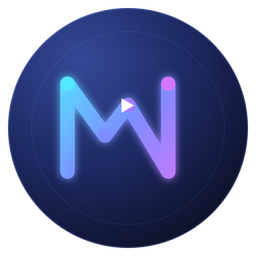
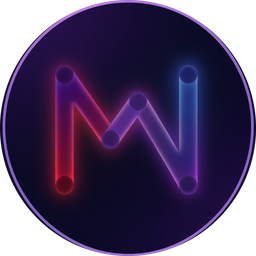
Add files via upload

diff --git a/messages/styles.css b/messages/styles.css
@@ -1,19 +1,19 @@
 
 :root {
-  --bg: #0a0a0f;
-  --surface: #12121a;
-  --elevated: #16161f;
-  --panel: #1b1b27;
+  --bg: #080814;
+  --surface: #0e0e22;
+  --elevated: #12122a;
+  --panel: #171733;
   --border: rgba(255, 255, 255, 0.08);
   --fg: #f0f0f5;
   --muted: #a0a0b0;
   --subtle: #6b7385;
-  --accent: #7d8cff;
-  --accent-2: #55e7ff;
+  --accent: #a35cff;
+  --accent-2: #6b9bff;
   --accent-fg: #071018;
   --danger: #e85d5d;
   --success: #3dd68c;
-  --gradient: linear-gradient(135deg, #55e7ff 0%, #7d8cff 50%, #d476ff 100%);
+  --gradient: linear-gradient(135deg, #ff3d5a 0%, #a35cff 50%, #4f8bff 100%);
 }
 * { box-sizing: border-box; }
 html, body { height: 100%; margin: 0; background: var(--bg); color: var(--fg); font-family: Inter, "Segoe UI", system-ui, sans-serif; }
@@ -21,14 +21,14 @@ button, input, textarea, select { font: inherit; color: inherit; }
 button { background: none; border: 0; cursor: pointer; }
 [hidden] { display: none !important; }
 ::-webkit-scrollbar { width: 10px; }
-::-webkit-scrollbar-thumb { background: #2a3040; border-radius: 99px; }
+::-webkit-scrollbar-thumb { background: #2a2850; border-radius: 99px; }
 .app { display: flex; height: 100%; min-height: 0; background: var(--bg); color: var(--fg); }
 .rail { width: 72px; display: flex; flex-direction: column; align-items: center; gap: 8px; border-right: 1px solid var(--border); background: var(--bg); padding: 12px 0; height: 100%; position: relative; flex-shrink: 0; }
 #servers { flex: 1; overflow: auto; width: 100%; display: flex; flex-direction: column; align-items: center; gap: 8px; }
 .rail img.home { width: 48px; height: 48px; border-radius: 16px; object-fit: cover; }
 .rail .rule { width: 32px; height: 1px; background: var(--border); }
 .rail .orb { width: 48px; height: 48px; border-radius: 16px; background: var(--elevated); color: var(--accent-2); display: grid; place-items: center; font-weight: 700; border: 1px solid var(--border); }
-.rail .orb:hover { border-color: rgba(125, 140, 255, 0.4); }
+.rail .orb:hover { border-color: rgba(163,92,255, 0.4); }
 .rail-bottom { margin-top: auto; display: flex; flex-direction: column; gap: 8px; padding-bottom: 10px; }
 .mid { width: 260px; display: flex; flex-direction: column; border-right: 1px solid var(--border); background: var(--surface); min-height: 0; flex-shrink: 0; }
 .mid-top { height: 56px; display: flex; align-items: center; padding: 0 16px; border-bottom: 1px solid var(--border); font-weight: 700; font-family: "Space Grotesk", Inter, sans-serif; }
@@ -36,9 +36,9 @@ button { background: none; border: 0; cursor: pointer; }
 .mid-item { width: 100%; text-align: left; border-radius: 10px; padding: 9px 10px; font-size: 14px; color: var(--fg); transition: background .15s ease; }
 .mid-item:hover, .mid-item.on { background: var(--elevated); }
 .call-top.join { background: var(--success); color: #071018; }
-.call-dock { display: flex; align-items: center; gap: 10px; margin: 8px 10px 0; padding: 10px 12px; width: calc(100% - 20px); text-align: left; border-radius: 14px; border: 1px solid rgba(85,231,255,.28); background: linear-gradient(135deg, rgba(85,231,255,.14), rgba(125,140,255,.16)); }
+.call-dock { display: flex; align-items: center; gap: 10px; margin: 8px 10px 0; padding: 10px 12px; width: calc(100% - 20px); text-align: left; border-radius: 14px; border: 1px solid rgba(79,139,255,.28); background: linear-gradient(135deg, rgba(79,139,255,.14), rgba(163,92,255,.16)); }
 .call-dock[hidden] { display: none !important; }
-.call-dock:hover { border-color: rgba(85,231,255,.5); }
+.call-dock:hover { border-color: rgba(79,139,255,.5); }
 .dock-dot { width: 8px; height: 8px; border-radius: 50%; background: var(--success); box-shadow: 0 0 0 4px rgba(61,214,140,.18); flex-shrink: 0; }
 .dock-copy { min-width: 0; display: flex; flex-direction: column; }
 .dock-kicker { font-size: 10px; letter-spacing: .08em; text-transform: uppercase; color: var(--muted); }
@@ -71,7 +71,7 @@ button { background: none; border: 0; cursor: pointer; }
 .ghost { color: var(--muted); padding: 6px 10px; border-radius: 8px; }
 .ghost:hover { color: var(--fg); background: var(--elevated); }
 .card { background: var(--elevated); border: 1px solid var(--border); border-radius: 14px; padding: 12px; margin-bottom: 10px; }
-.card:hover { border-color: rgba(125, 140, 255, 0.35); }
+.card:hover { border-color: rgba(163,92,255, 0.35); }
 .field { width: 100%; height: 44px; border-radius: 10px; border: 1px solid var(--border); background: var(--elevated); padding: 0 12px; margin: 6px 0; }
 .h { font-size: 11px; letter-spacing: 0.06em; text-transform: uppercase; color: var(--muted); margin: 16px 0 8px; }
 .ok { color: var(--success); } .err { color: var(--danger); }
@@ -81,7 +81,7 @@ button { background: none; border: 0; cursor: pointer; }
 label { display: block; font-size: 13px; color: var(--muted); margin-top: 10px; }
 .check { display: flex; align-items: center; gap: 8px; margin: 12px 0; }
 .preview { border: 1px solid var(--border); border-radius: 16px; overflow: hidden; margin-bottom: 12px; background: var(--elevated); }
-.banner { height: 84px; background: #12141c; }
+.banner { height: 84px; background: #0e1022; }
 .preview-row { display: flex; gap: 12px; align-items: center; padding: 12px; }
 .emoji { padding: 8px 16px; display: flex; flex-wrap: wrap; gap: 6px; border-top: 1px solid var(--border); }
 .emoji button { font-size: 18px; }
@@ -108,7 +108,7 @@ label { display: block; font-size: 13px; color: var(--muted); margin-top: 10px; 
 .group-faces .avatar:first-child { margin-left: 0; }
 .plus-btn, .edit-btn, .gear-btn { width: 34px; height: 34px; border-radius: 10px; background: var(--surface); border: 1px solid var(--border); color: var(--fg); font-size: 16px; line-height: 1; flex-shrink: 0; }
 .plus-btn { font-size: 20px; }
-.plus-btn:hover, .edit-btn:hover, .gear-btn:hover { border-color: rgba(125,140,255,.5); background: #1c2130; }
+.plus-btn:hover, .edit-btn:hover, .gear-btn:hover { border-color: rgba(163,92,255,.5); background: #1a1a38; }
 .setting-card.tight { padding: 10px; margin-bottom: 10px; }
 .group-danger { display: flex; gap: 8px; margin-top: 12px; }
 .ghost.danger { color: #ffb4b4; }
@@ -118,17 +118,17 @@ label { display: block; font-size: 13px; color: var(--muted); margin-top: 10px; 
 .group-icon { width: 36px; height: 36px; border-radius: 12px; background: var(--gradient); color: #fff; display: grid; place-items: center; font-weight: 700; overflow: hidden; flex-shrink: 0; }
 .group-icon img { width: 100%; height: 100%; object-fit: cover; }
 .group-orb img { width: 100%; height: 100%; object-fit: cover; border-radius: 9px; }
-.pick-row.selected { border-color: rgba(125,140,255,.55); background: #22283c; }
+.pick-row.selected { border-color: rgba(163,92,255,.55); background: #241f4a; }
 .photo-edit { display: flex; align-items: center; gap: 12px; margin: 12px 0 8px; }
 .photo-preview { width: 72px; height: 72px; border-radius: 18px; background: var(--gradient); color: #fff; display: grid; place-items: center; font-size: 28px; font-weight: 700; overflow: hidden; }
 .photo-preview img { width: 100%; height: 100%; object-fit: cover; }
 .msg-row { align-items: flex-end; }
 .msg-row.mine { justify-content: flex-end; }
 .msg-row .avatar { width: 28px; height: 28px; font-size: 11px; }
-.bubble.mine .msg { background: linear-gradient(180deg, #2a3350, #22283c); }
+.bubble.mine .msg { background: linear-gradient(180deg, #2b2757, #241f4a); }
 .bubble.cont .meta { display: none; }
 .day-sep { align-self: center; font-size: 11px; color: var(--muted); background: var(--elevated); border: 1px solid var(--border); border-radius: 999px; padding: 3px 10px; margin: 6px 0; }
-.modal { position: fixed; inset: 0; z-index: 90; background: rgba(7,10,16,.72); backdrop-filter: blur(12px); display: grid; place-items: center; padding: 20px; }
+.modal { position: fixed; inset: 0; z-index: 90; background: rgba(5,5,14,.72); backdrop-filter: blur(12px); display: grid; place-items: center; padding: 20px; }
 .modal[hidden] { display: none !important; }
 .modal-card { width: min(420px, 94vw); max-height: min(560px, 86vh); overflow: auto; background: var(--surface); border: 1px solid var(--border); border-radius: 20px; padding: 18px; box-shadow: 0 24px 80px rgba(0,0,0,.45); }
 .modal-top { display: flex; align-items: flex-start; justify-content: space-between; gap: 12px; margin-bottom: 8px; }
@@ -141,11 +141,11 @@ label { display: block; font-size: 13px; color: var(--muted); margin-top: 10px; 
 .pick-row .sub { font-size: 11px; }
 .pick-row.in { opacity: .7; }
 .pick-add { background: var(--gradient); color: #fff; border-radius: 8px; padding: 6px 10px; font-size: 12px; font-weight: 600; }
-.pick-add[disabled] { opacity: .5; background: #2a2e3c; color: var(--muted); }
+.pick-add[disabled] { opacity: .5; background: #2b2a4a; color: var(--muted); }
 .modal-extra { margin-top: 4px; }
-.call-with { font-size: 15px; color: #d7dbff; margin-top: 6px; font-weight: 600; }
+.call-with { font-size: 15px; color: #e3d6ff; margin-top: 6px; font-weight: 600; }
 #servers { display: none; }
-.incoming-overlay { position: fixed; inset: 0; z-index: 80; background: rgba(7, 10, 16, 0.78); backdrop-filter: blur(16px); display: grid; place-items: center; }
+.incoming-overlay { position: fixed; inset: 0; z-index: 80; background: rgba(5,5,14, 0.78); backdrop-filter: blur(16px); display: grid; place-items: center; }
 .incoming-overlay[hidden] { display: none !important; }
 .incoming-card { width: min(380px, 92vw); background: var(--surface); border: 1px solid var(--border); border-radius: 24px; padding: 32px 24px; text-align: center; box-shadow: 0 24px 80px rgba(0,0,0,0.45); }
 .incoming-card h2 { font-family: "Space Grotesk", Inter, sans-serif; margin: 12px 0 6px; }
@@ -153,7 +153,7 @@ label { display: block; font-size: 13px; color: var(--muted); margin-top: 10px; 
 .accept-btn, .end-btn, .ctl { border: 0; border-radius: 999px; padding: 12px 18px; font-weight: 700; cursor: pointer; }
 .accept-btn { background: var(--success); color: #071018; }
 .end-btn, .ctl.end { background: var(--danger); color: #fff; }
-.call-stage { display: flex; flex-direction: column; position: relative; background: radial-gradient(1200px 500px at 50% -10%, #24283c 0%, #0a0b10 55%); min-height: 0; }
+.call-stage { display: flex; flex-direction: column; position: relative; background: radial-gradient(1200px 500px at 50% -10%, #261c4d 0%, #07070f 55%); min-height: 0; }
 .call-stage[hidden] { display: none !important; }
 .call-hero { text-align: center; padding: 18px 16px 8px; flex-shrink: 0; }
 .call-kicker { font-size: 11px; letter-spacing: .14em; text-transform: uppercase; color: var(--muted); }
@@ -167,12 +167,12 @@ label { display: block; font-size: 13px; color: var(--muted); margin-top: 10px; 
 .tiles-grid > .tile { flex: 0 0 var(--tw); width: var(--tw); aspect-ratio: 16 / 10; }
 .tiles-grid.has-pin { align-content: flex-start; }
 .tiles-grid.has-pin::after { content: ''; order: -1; flex: 0 0 100%; height: 0; }
-.tiles-grid.has-pin > .tile.pinned { order: -1; flex: 0 0 var(--pin-w); width: var(--pin-w); max-width: 100%; aspect-ratio: 16 / 9; border-color: rgba(125,140,255,.6); }
+.tiles-grid.has-pin > .tile.pinned { order: -1; flex: 0 0 var(--pin-w); width: var(--pin-w); max-width: 100%; aspect-ratio: 16 / 9; border-color: rgba(163,92,255,.6); }
 .tiles-grid.has-pin > .tile.pinned .face { --orb: 110px; }
 .tiles-grid > .tile:fullscreen { flex: none; width: 100vw; height: 100vh; max-width: none; aspect-ratio: auto; }
-.tile { position: relative; width: 100%; aspect-ratio: 16 / 10; margin: 0; border-radius: 22px; overflow: hidden; background: linear-gradient(180deg, #1b2030 0%, #12151f 100%); border: 1px solid var(--border); box-shadow: 0 18px 40px rgba(0,0,0,.28); }
-.tile.local-tile { box-shadow: 0 0 0 1px rgba(85,231,255,.25), 0 18px 40px rgba(0,0,0,.28); }
-.tile .face { position: absolute; inset: 0; display: grid; place-items: center; font-size: 42px; font-weight: 700; background: radial-gradient(circle at 50% 30%, #2a3348, #151821); }
+.tile { position: relative; width: 100%; aspect-ratio: 16 / 10; margin: 0; border-radius: 22px; overflow: hidden; background: linear-gradient(180deg, #171733 0%, #0f0f26 100%); border: 1px solid var(--border); box-shadow: 0 18px 40px rgba(0,0,0,.28); }
+.tile.local-tile { box-shadow: 0 0 0 1px rgba(79,139,255,.25), 0 18px 40px rgba(0,0,0,.28); }
+.tile .face { position: absolute; inset: 0; display: grid; place-items: center; font-size: 42px; font-weight: 700; background: radial-gradient(circle at 50% 30%, #2a2250, #110f26); }
 .tile video { position: absolute; inset: 0; width: 100%; height: 100%; object-fit: cover; background: transparent; }
 .tile-name { position: absolute; left: 10px; bottom: 10px; font-size: 12px; background: rgba(0,0,0,.5); padding: 4px 10px; border-radius: 999px; backdrop-filter: blur(8px); }
 .tile .face { --orb: var(--orb-size, 76px); grid-template-areas: 'c'; }
@@ -185,25 +185,25 @@ label { display: block; font-size: 13px; color: var(--muted); margin-top: 10px; 
 .tile-more { position: absolute; right: 10px; bottom: 10px; z-index: 2; width: 30px; height: 30px; min-width: 0; min-height: 0; padding: 0; border-radius: 50%; display: grid; place-items: center; color: #fff; background: rgba(0,0,0,.5); backdrop-filter: blur(8px); }
 .tile-more svg { width: 18px; height: 18px; fill: currentColor; stroke: none; }
 .tile-more:hover { background: rgba(0,0,0,.72); }
-.user-menu { position: fixed; z-index: 60; width: 224px; padding: 12px; background: #181b25; border: 1px solid var(--border); border-radius: 12px; box-shadow: 0 14px 32px rgba(0,0,0,.45); font-size: 13px; }
+.user-menu { position: fixed; z-index: 60; width: 224px; padding: 12px; background: #14142c; border: 1px solid var(--border); border-radius: 12px; box-shadow: 0 14px 32px rgba(0,0,0,.45); font-size: 13px; }
 .user-menu[hidden] { display: none !important; }
 .um-title { font-weight: 700; margin-bottom: 10px; overflow: hidden; text-overflow: ellipsis; white-space: nowrap; }
 .um-row { display: flex; justify-content: space-between; color: var(--muted); font-size: 12px; margin-bottom: 6px; }
 .um-val { color: var(--fg); }
-.user-menu input[type=range] { width: 100%; accent-color: #7d8cff; }
+.user-menu input[type=range] { width: 100%; accent-color: #a35cff; }
 .um-reset { margin-top: 8px; padding: 6px 10px; border-radius: 8px; background: var(--elevated); color: var(--fg); font-size: 12px; }
 .um-check { display: flex; align-items: center; gap: 8px; }
-.um-check input { accent-color: #7d8cff; }
+.um-check input { accent-color: #a35cff; }
 .tile.connected .tile-name { box-shadow: 0 0 0 1px rgba(61,214,140,.45); }
 .more-wrap { position: relative; }
-.more-menu { position: absolute; bottom: 64px; right: 0; width: 240px; background: #181b25; border: 1px solid var(--border); border-radius: 12px; padding: 10px; z-index: 6; }
+.more-menu { position: absolute; bottom: 64px; right: 0; width: 240px; background: #14142c; border: 1px solid var(--border); border-radius: 12px; padding: 10px; z-index: 6; }
 .more-menu[hidden] { display: none !important; }
 .vol-wrap { display: flex; align-items: center; gap: 8px; color: var(--muted); font-size: 12px; }
-.vol-wrap input[type=range] { flex: 1; accent-color: #7d8cff; height: 6px; }
+.vol-wrap input[type=range] { flex: 1; accent-color: #a35cff; height: 6px; }
 .ns-toggle { display: flex; align-items: center; gap: 8px; margin-top: 10px; color: var(--fg); font-size: 12px; }
-.ns-toggle input { accent-color: #7d8cff; }
+.ns-toggle input { accent-color: #a35cff; }
 .ns-hint { margin: 6px 0 0; font-size: 11px; color: var(--muted); }
-.call-bar { display: flex; justify-content: center; gap: 10px; padding: 10px 12px; flex-shrink: 0; position: absolute; left: 50%; bottom: 18px; transform: translateX(-50%); background: rgba(16,18,28,.78); border: 1px solid var(--border); border-radius: 999px; backdrop-filter: blur(18px); box-shadow: 0 16px 40px rgba(0,0,0,.35); z-index: 5; }
+.call-bar { display: flex; justify-content: center; gap: 10px; padding: 10px 12px; flex-shrink: 0; position: absolute; left: 50%; bottom: 18px; transform: translateX(-50%); background: rgba(14,14,34,.78); border: 1px solid var(--border); border-radius: 999px; backdrop-filter: blur(18px); box-shadow: 0 16px 40px rgba(0,0,0,.35); z-index: 5; }
 .ctl { background: var(--elevated); color: var(--fg); min-width: 52px; min-height: 52px; }
 .ctl.off { background: #3a2a2a; color: #ffb4b4; }
 .icon-btn { display: grid; place-items: center; padding: 0; }
@@ -211,14 +211,14 @@ label { display: block; font-size: 13px; color: var(--muted); margin-top: 10px; 
 .dev-wrap { position: relative; }
 .dev-pick {
   position: absolute; right: -3px; bottom: -3px; width: 18px; height: 18px; padding: 0;
-  border-radius: 999px; border: 1px solid var(--border); background: #1c2030; color: var(--fg);
+  border-radius: 999px; border: 1px solid var(--border); background: #1a1a38; color: var(--fg);
   font-size: 9px; line-height: 1; z-index: 6; display: grid; place-items: center;
 }
-.dev-pick:hover { background: #2a3146; }
+.dev-pick:hover { background: #2b2757; }
 .dev-menu {
   position: absolute; bottom: 58px; left: 50%; transform: translateX(-50%);
   min-width: 220px; max-width: 280px; max-height: 240px; overflow: auto;
-  background: #181b25; border: 1px solid var(--border); border-radius: 12px;
+  background: #14142c; border: 1px solid var(--border); border-radius: 12px;
   padding: 6px; z-index: 8; box-shadow: 0 14px 32px rgba(0,0,0,.4);
 }
 .dev-menu[hidden] { display: none !important; }
@@ -228,8 +228,8 @@ label { display: block; font-size: 13px; color: var(--muted); margin-top: 10px; 
   border: 0; border-radius: 8px; padding: 8px 10px; font-size: 12px; white-space: nowrap;
   overflow: hidden; text-overflow: ellipsis;
 }
-.dev-menu button:hover { background: #242836; }
-.dev-menu button.active { background: #2a3350; color: #c9d4ff; }
+.dev-menu button:hover { background: #201d42; }
+.dev-menu button.active { background: #2b2757; color: #d6c4ff; }
 .voice-people { padding: 0 16px; }
 .page-title { font-family: "Space Grotesk", Inter, sans-serif; font-size: 22px; margin: 0 0 14px; }
 .setting-card { background: var(--elevated); border: 1px solid var(--border); border-radius: 16px; padding: 14px; margin-bottom: 14px; }
@@ -245,8 +245,8 @@ body.compact .thread { gap: 6px; }
 .tile.screen-tile { background: #000; }
 .tile.screen-tile video { object-fit: contain; background: #000; }
 .tile:fullscreen { width: 100vw; height: 100vh; max-width: none; aspect-ratio: auto; border-radius: 0; border: 0; }
-.screen-card { position: absolute; inset: 0; display: grid; place-content: center; justify-items: center; gap: 10px; text-align: center; background: radial-gradient(circle at 50% 30%, #1d2a44, #0b0e16); }
-.screen-card svg { width: 44px; height: 44px; fill: none; stroke: #7d8cff; stroke-width: 1.8; stroke-linecap: round; stroke-linejoin: round; }
+.screen-card { position: absolute; inset: 0; display: grid; place-content: center; justify-items: center; gap: 10px; text-align: center; background: radial-gradient(circle at 50% 30%, #1f2552, #0a0a18); }
+.screen-card svg { width: 44px; height: 44px; fill: none; stroke: #a35cff; stroke-width: 1.8; stroke-linecap: round; stroke-linejoin: round; }
 .screen-card-title { font-weight: 700; }
 .stop-share { background: var(--danger); color: #fff; border-radius: 999px; padding: 8px 16px; font-weight: 700; }
 .screen-card-sub { font-size: 12px; color: var(--muted); }

diff --git a/messages/app.js b/messages/app.js
@@ -158,8 +158,8 @@ async function boot() {
     displayName: extraRow?.display_name || row?.username || '',
     bio: extraRow?.bio || '',
     pronouns: extraRow?.pronouns || '',
-    color: extraRow?.color || '#4fc3f7',
-    bannerColor: extraRow?.banner_color || '#12141c',
+    color: extraRow?.color || '#4f8bff',
+    bannerColor: extraRow?.banner_color || '#0e1022',
     status: extraRow?.status || 'online',
     hideOnline: !!extraRow?.hide_online
   };
@@ -613,8 +613,8 @@ function paintMe() {
   $('displayName').value = me.displayName || '';
   $('bio').value = me.bio || '';
   $('pronouns').value = me.pronouns || '';
-  $('color').value = me.color || '#4fc3f7';
-  $('bannerColor').value = me.bannerColor || '#12141c';
+  $('color').value = me.color || '#4f8bff';
+  $('bannerColor').value = me.bannerColor || '#0e1022';
   $('status').value = me.status || 'online';
   $('hideOnline').checked = !!me.hideOnline;
   $('prevName').textContent = label;
@@ -1086,7 +1086,7 @@ function openEditGroupModal() {
   applyGroupMeta(activeServer);
   pendingGroupPhoto = activeServer.photo || readGroupMeta(activeServer.id).photo || null;
   if ($('groupNameInput')) $('groupNameInput').value = activeServer.name || '';
-  if ($('groupColorInput')) $('groupColorInput').value = activeServer.color || readGroupMeta(activeServer.id).color || '#7d8cff';
+  if ($('groupColorInput')) $('groupColorInput').value = activeServer.color || readGroupMeta(activeServer.id).color || '#a35cff';
   if ($('groupTopicInput')) $('groupTopicInput').value = activeServer.topic || readGroupMeta(activeServer.id).topic || '';
   if ($('editGroupNote')) $('editGroupNote').textContent = '';
   setGroupPhotoPreview(pendingGroupPhoto, activeServer.name);

diff --git a/styles.css b/styles.css
@@ -1,10 +1,10 @@
 :root {
-  --bg: #09090f;
-  --card: #16161f;
+  --bg: #080814;
+  --card: #12122a;
   --text: #f3f4f8;
   --muted: #8b91a7;
   --line: rgba(255,255,255,.1);
-  --accent: linear-gradient(135deg, #55e7ff, #7d8cff);
+  --accent: linear-gradient(135deg, #ff3d5a 0%, #a35cff 50%, #4f8bff 100%);
 }
 * { box-sizing: border-box; margin: 0; padding: 0; }
 body {
@@ -19,7 +19,7 @@ body {
   align-items: center;
   justify-content: center;
   padding: 24px;
-  background: radial-gradient(circle at top, rgba(125,140,255,.18), transparent 40%), var(--bg);
+  background: radial-gradient(circle at top, rgba(163,92,255,.18), transparent 40%), var(--bg);
 }
 .auth-card {
   width: min(400px, 100%);
@@ -45,7 +45,7 @@ body {
   font-size: 13px; font-weight: 600; color: var(--muted);
 }
 input {
-  background: #0c0c14;
+  background: #0a0a1c;
   border: 1px solid var(--line);
   color: var(--text);
   border-radius: 12px;
@@ -54,7 +54,7 @@ input {
 }
 .btn {
   border: 0; border-radius: 999px; padding: 12px 16px;
-  background: var(--accent); color: #071018; font-weight: 700; cursor: pointer;
+  background: var(--accent); color: #fff; font-weight: 700; cursor: pointer;
 }
 .auth-submit { width: 100%; margin-top: 6px; }
 .auth-note { min-height: 18px; text-align: center; margin-top: 12px; color: #ff8b8b; font-size: 14px; }

diff --git a/messages/main.html b/messages/main.html
@@ -112,8 +112,8 @@
           <label>Pronouns<input class="field" id="pronouns" maxlength="24"></label>
         </div>
         <div class="setting-card">
-          <label>Accent color<input class="field" id="color" type="color" value="#4fc3f7"></label>
-          <label>Banner color<input class="field" id="bannerColor" type="color" value="#12141c"></label>
+          <label>Accent color<input class="field" id="color" type="color" value="#4f8bff"></label>
+          <label>Banner color<input class="field" id="bannerColor" type="color" value="#0e1022"></label>
           <label>Status
             <select class="field" id="status">
               <option value="online">online</option>
@@ -244,7 +244,7 @@
       <label>Group name
         <input class="field" id="groupNameInput" maxlength="40" placeholder="Group name">
       </label>
-      <label>Accent color<input class="field" id="groupColorInput" type="color" value="#7d8cff"></label>
+      <label>Accent color<input class="field" id="groupColorInput" type="color" value="#a35cff"></label>
       <label>Topic / description<input class="field" id="groupTopicInput" maxlength="80" placeholder="What’s this group for?"></label>
       <p class="sub" id="editGroupNote"></p>
       <button class="send" id="saveGroupBtn" type="button">Save</button>

diff --git a/index.html b/index.html
@@ -4,7 +4,7 @@
   <meta charset="UTF-8">
   <meta name="viewport" content="width=device-width, initial-scale=1.0">
   <title>Mokio Dev</title>
-  <link rel="icon" href="images/logo.svg" type="image/svg+xml">
+  <link rel="icon" href="images/logo.png" type="image/png">
   <link href="https://fonts.googleapis.com/css2?family=Inter:wght@400;500;600;700;800&family=Space+Grotesk:wght@500;600;700&display=swap" rel="stylesheet">
   <link rel="stylesheet" href="styles.css">
 </head>
@@ -12,7 +12,7 @@
   <div class="modal">
     <div class="auth-card">
       <div class="auth-brand">
-        <img src="images/logo.svg" alt="Mokio" class="auth-logo">
+        <img src="images/logo.png" alt="Mokio" class="auth-logo">
         <h2>Mokio Dev</h2>
         <p class="auth-sub">Owner and tester access only.</p>
       </div>
